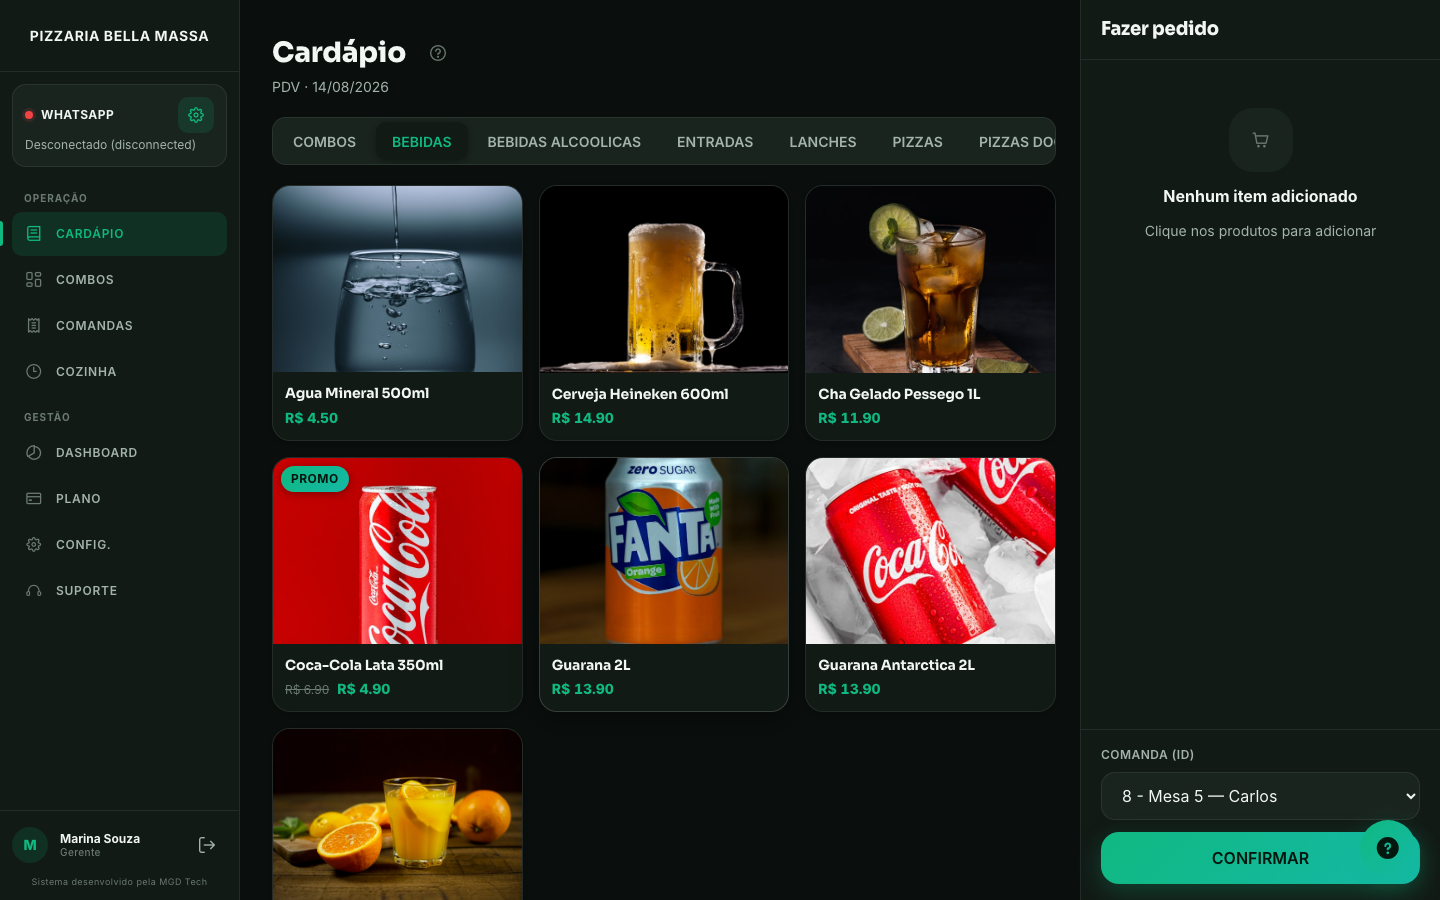
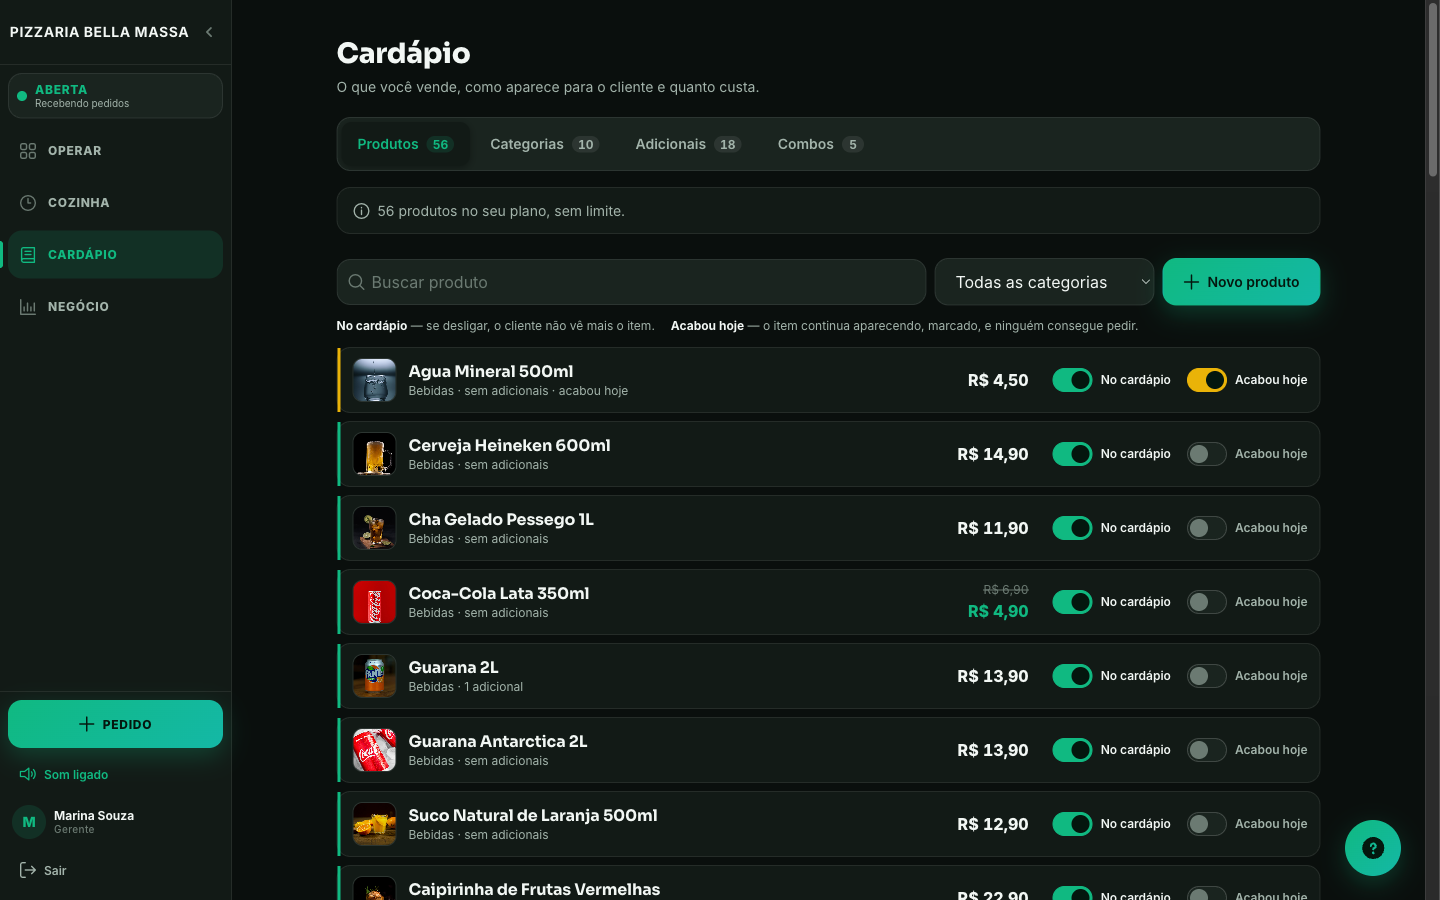
Atualiza Mesa10 no portfolio com o redesign atual
Recaptura as 7 telas do Mesa10 depois do redesign estrutural (4 destinos)
e acrescenta 2 novas: chat do pedido e mesa por QR.

Reescreve description, story e features para o produto atual: planta do
salao com valor e tempo, comanda com catalogo embutido, KDS por pedido
com pracas e modo TV, mesa por QR com token, areas de entrega no Google
Maps, chat com o cliente, fechar loja com motivo, item "acabou hoje" e
relatorio com vendido aberto+fechado.

diff --git a/src/components/Work.tsx b/src/components/Work.tsx
@@ -175,19 +175,23 @@ const personalProjects: PersonalProject[] = [
     title: 'Mesa10',
     role: 'Founder · produto SaaS multi-tenant',
     description:
-      'SaaS para bares e restaurantes operarem comanda, caixa, cozinha (KDS), delivery e mesa via QR code — com canal WhatsApp e cardápio público por slug. Redesign completo com design system próprio.',
+      'SaaS multi-tenant para bar e restaurante. Quatro destinos — Operar, Cozinha, Cardápio e Negócio — no lugar de vinte telas. Salão, delivery, balcão e mesa por QR caem na mesma fila, e o cliente pede pelo celular sem instalar nada.',
     story:
-      'Multi-tenant real — cada cliente acessa pela URL `app/:slug`. Design system dark premium na operação e tema claro no cardápio do cliente, mobile-first de ponta a ponta (bottom nav, bottom-sheets, touch targets). Painel SaaS com 2FA obrigatório pra administrar tenants, planos e suporte.',
+      'A primeira versão tinha uma tela pra cada coisa e ninguém achava nada no meio do movimento. Refiz a navegação inteira em 4 destinos e trouxe o lançamento pra dentro da comanda: abro a mesa, o catálogo aparece do lado e eu lanço sem trocar de tela. A planta do salão mostra valor e tempo de cada conta, então dá pra ver quem está esquecido sem abrir nada. Multi-tenant por slug, escuro na operação e claro no que o cliente vê.',
     features: [
-      'Multi-tenant por slug · isolamento por cliente',
-      'Design system próprio · dark na operação, light no cliente',
-      'Comanda, caixa e fechamento em tempo real',
-      'Delivery e mesa QR com cardápio público mobile-first',
-      'Cozinha (KDS) com tempo por cor e toque grande',
-      'Integração WhatsApp por status de pedido',
-      'Painel SaaS · tenants, planos, suporte, 2FA server-side',
+      'Quatro destinos · Operar, Cozinha, Cardápio e Negócio',
+      'Planta do salão com valor e tempo de cada mesa',
+      'Comanda com catálogo embutido · lança sem sair da tela',
+      'Cozinha (KDS) por pedido, com praças e modo TV',
+      'Mesa por QR com token · o cliente pede do próprio celular',
+      'Áreas de entrega desenhadas no Google Maps, com preço e prazo',
+      'Chat com o cliente dentro do pedido (WhatsApp via Evolution)',
+      'Fechar a loja com motivo · o cliente vê o aviso no cardápio',
+      'Item "acabou hoje" fica no cardápio, mas trava o pedido',
+      'Relatório com vendido em aberto + fechado e venda por hora',
+      'Planos por canal, com taxa por pedido opcional',
     ],
-    tech: ['React', 'Vite', 'PrimeReact', 'Laravel', 'Node.js', 'MySQL', 'WhatsApp API'],
+    tech: ['React', 'Vite', 'Laravel 12', 'MariaDB', 'Evolution API', 'Google Maps', 'Docker'],
     status: 'em desenvolvimento · multi-tenant',
     logo: '/projects/logos/mesa10.svg',
     logoBg: 'bg-bg3',
@@ -196,19 +200,21 @@ const personalProjects: PersonalProject[] = [
         label: 'Tenant · Pizzaria Bella Massa',
         perfil: 'gerente',
         shots: [
-          { src: '/projects/mesa10-pizzaria-pedidos.png',   caption: 'Pedidos em tempo real · mesas, balcão, retirada e delivery' },
-          { src: '/projects/mesa10-pizzaria-cozinha.png',   caption: 'Cozinha (KDS) · tempo por cor, ações de toque grande' },
-          { src: '/projects/mesa10-pizzaria-cardapio.png',  caption: 'PDV · cardápio, adicionais e lançamento em comanda' },
-          { src: '/projects/mesa10-pizzaria-combos.png',    caption: 'Combos · montagem por etapas' },
-          { src: '/projects/mesa10-pizzaria-dashboard.png', caption: 'Dashboard · vendas, ticket médio e top produtos' },
-          { src: '/projects/mesa10-pizzaria-config.png',    caption: 'Configurações · horários, frete, pagamento, WhatsApp' },
+          { src: '/projects/mesa10-pizzaria-pedidos.png',   caption: 'Operar · planta do salão com valor e tempo de cada mesa' },
+          { src: '/projects/mesa10-pizzaria-cozinha.png',   caption: 'Cozinha · um card por pedido, praça por item e modo TV' },
+          { src: '/projects/mesa10-chat-pedido.png',        caption: 'Chat do pedido · falo com o cliente sem sair do sistema' },
+          { src: '/projects/mesa10-pizzaria-cardapio.png',  caption: 'Cardápio · promoção, "no cardápio" e "acabou hoje" por item' },
+          { src: '/projects/mesa10-pizzaria-combos.png',    caption: 'Combo · editor de um lado, o que o cliente vê do outro' },
+          { src: '/projects/mesa10-pizzaria-dashboard.png', caption: 'Relatório · vendido em aberto + fechado e venda por hora' },
+          { src: '/projects/mesa10-pizzaria-config.png',    caption: 'Ajustes · áreas de entrega desenhadas no mapa, com preço e prazo' },
         ],
       },
       {
-        label: 'Cliente · pedido público',
+        label: 'Cliente · sem login',
         perfil: 'customer',
         shots: [
-          { src: '/projects/mesa10-customer-mobile-pedido.png', caption: 'Cardápio público mobile · sacola persistente e checkout guiado', mobile: true },
+          { src: '/projects/mesa10-customer-mobile-pedido.png', caption: 'Cardápio público · seções, fotos e preço promocional', mobile: true },
+          { src: '/projects/mesa10-mesa-qr.png',                caption: 'Mesa por QR · pede do celular, chama o atendente e pede a conta', mobile: true },
         ],
       },
     ],
